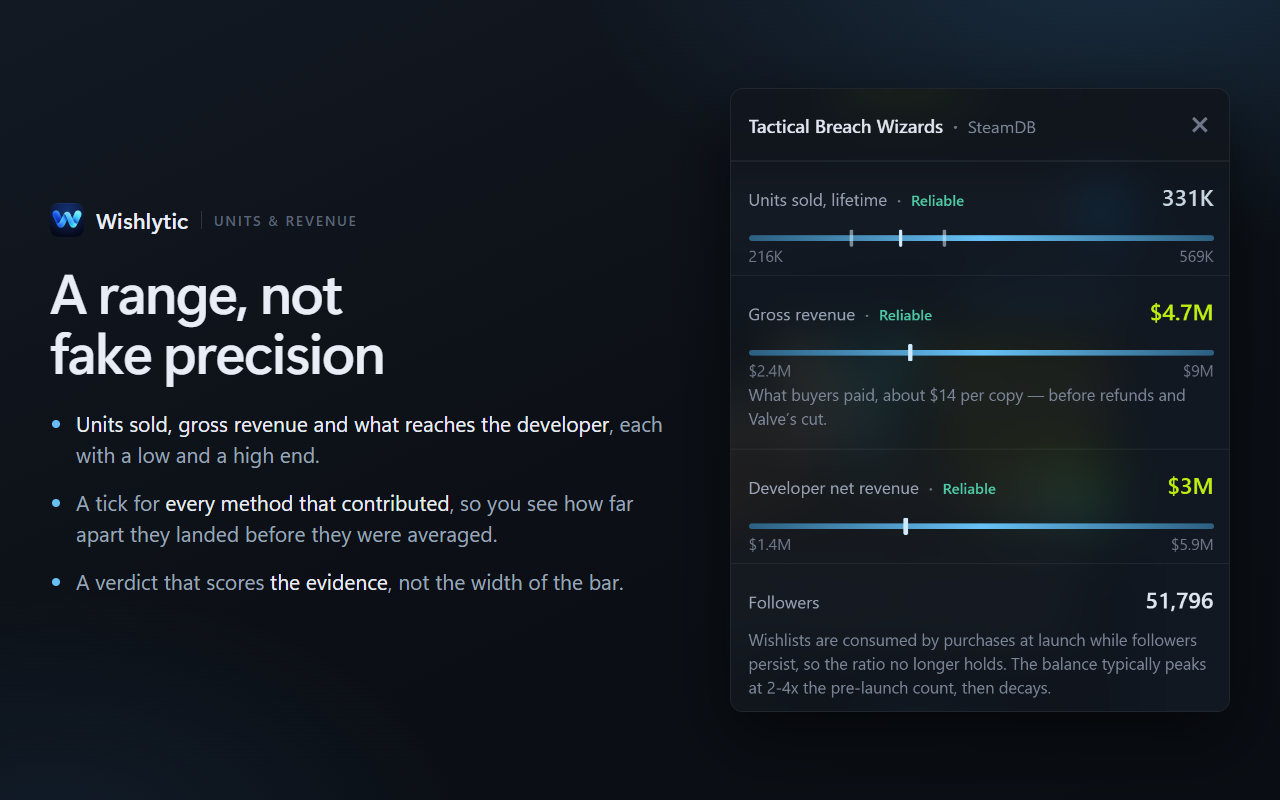
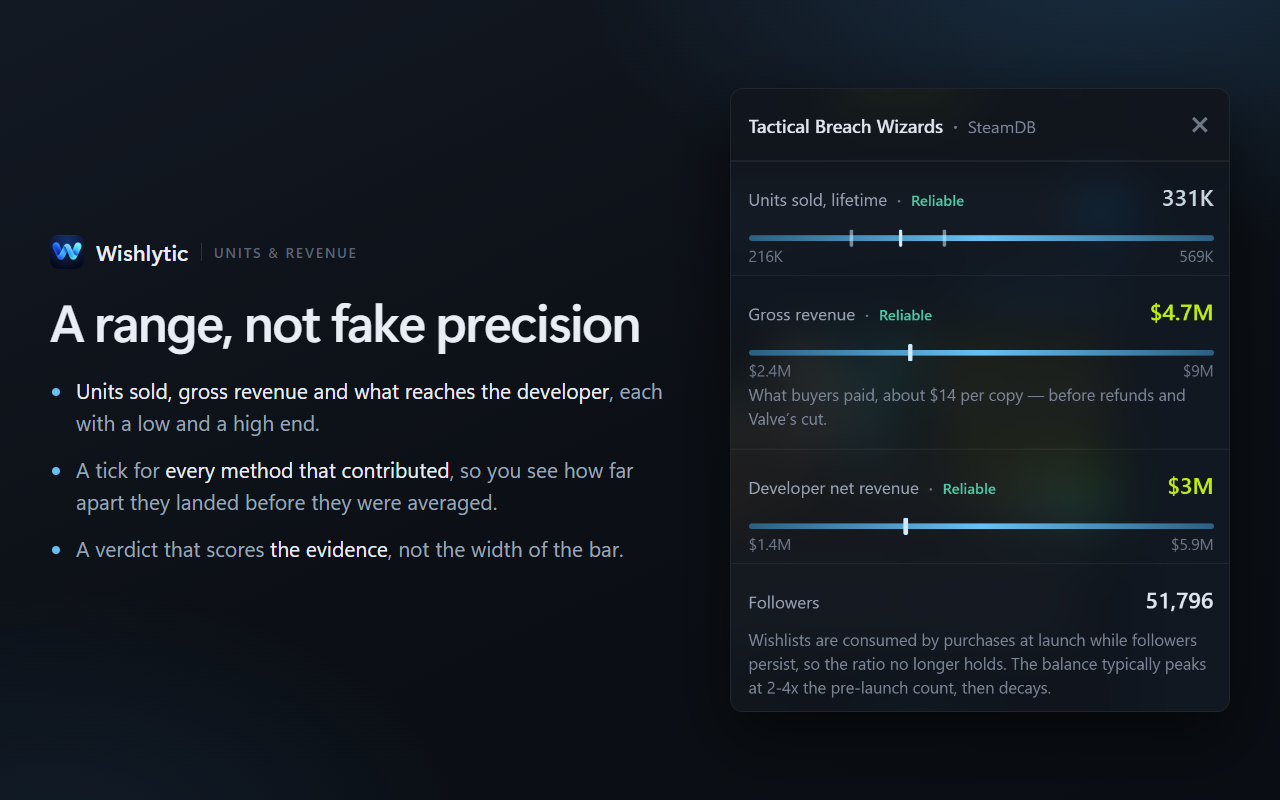
Set the second listing headline on one line
At 56px "A range, not fake precision" ran four pixels past its column, so
the balancer broke it after "not" — a line ending on the negation, and the
worst of the three places that sentence can break. Four pixels off the type
fits it on one line and the break goes away.

The non-breaking spaces are for a machine whose fallback face is wider than
Segoe UI Variable Display: there the line still has to break, and this makes
it break at the comma rather than mid-phrase.

Changed region(s): [[0.0312, 0.25, 0.5312, 0.75]]

diff --git a/screenshots/store/tiles.html b/screenshots/store/tiles.html
@@ -84,6 +84,10 @@
     text-wrap: balance;
   }
   .above h1 { font-size: 54px; }
+  /* Tile 2's headline is one sentence with a comma in it, and at 56px it runs
+     four pixels past the column — just enough to break, and every break in it
+     is worse than none. Four pixels off the type sets it on one line. */
+  [data-tile="2"] h1 { font-size: 52px; }
 
   p, li { font-size: 21px; line-height: 1.5; color: var(--muted); max-width: 30em; }
   p { margin-top: 20px; }
@@ -194,7 +198,10 @@
       <b>Wishlytic</b>
       <span>Units &amp; revenue</span>
     </div>
-    <h1>A range, not fake precision</h1>
+    <!-- One line on the fonts these pictures are taken with. The binding is for
+         a machine whose fallback face is wider: it breaks at the comma there,
+         rather than after "not". -->
+    <h1>A range, not&nbsp;fake&nbsp;precision</h1>
     <ul>
       <li><em>Units sold, gross revenue and what reaches the developer</em>, each with a low
         and a high end.</li>
